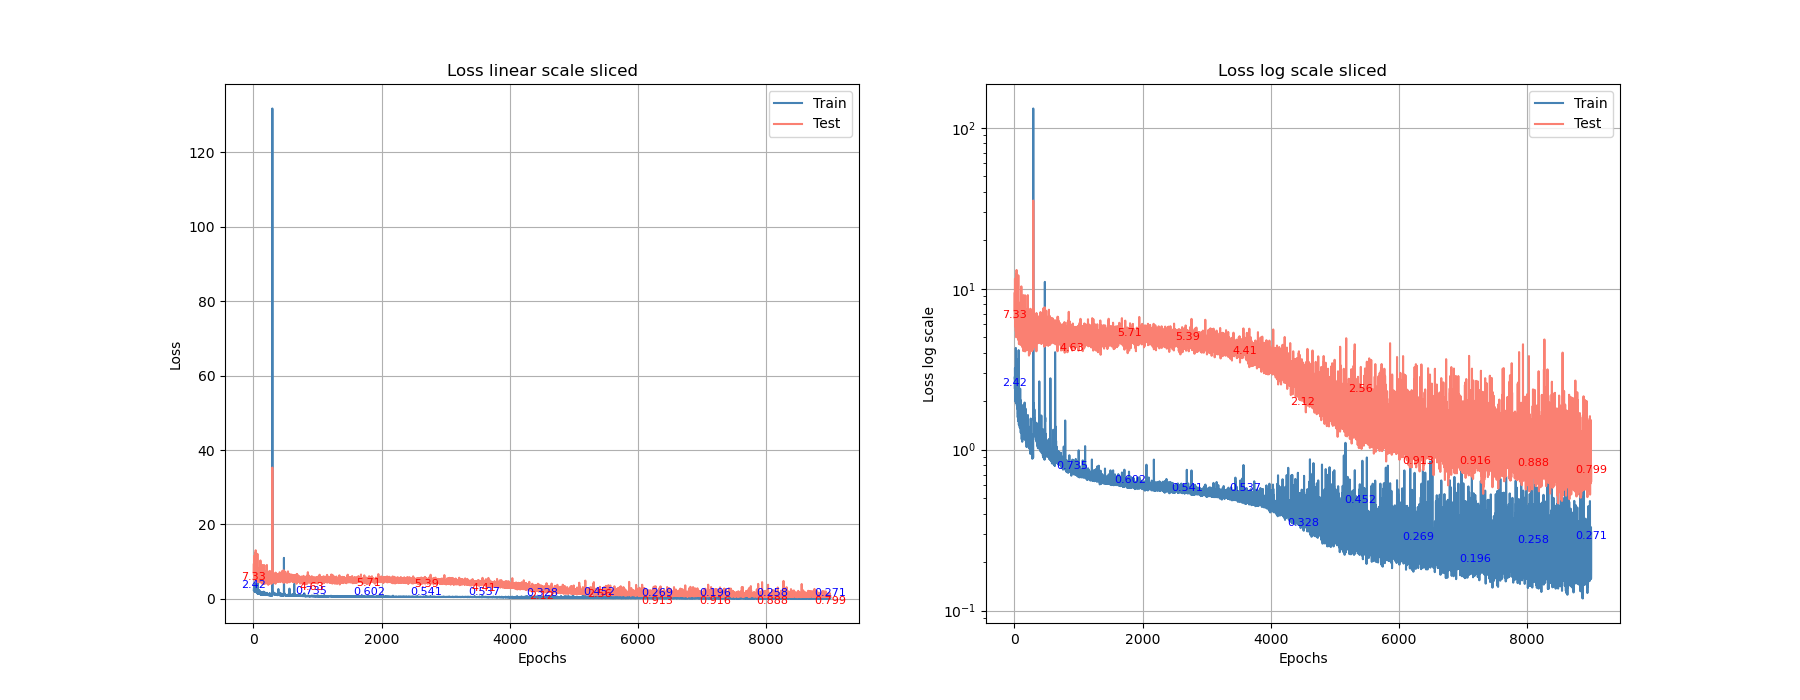
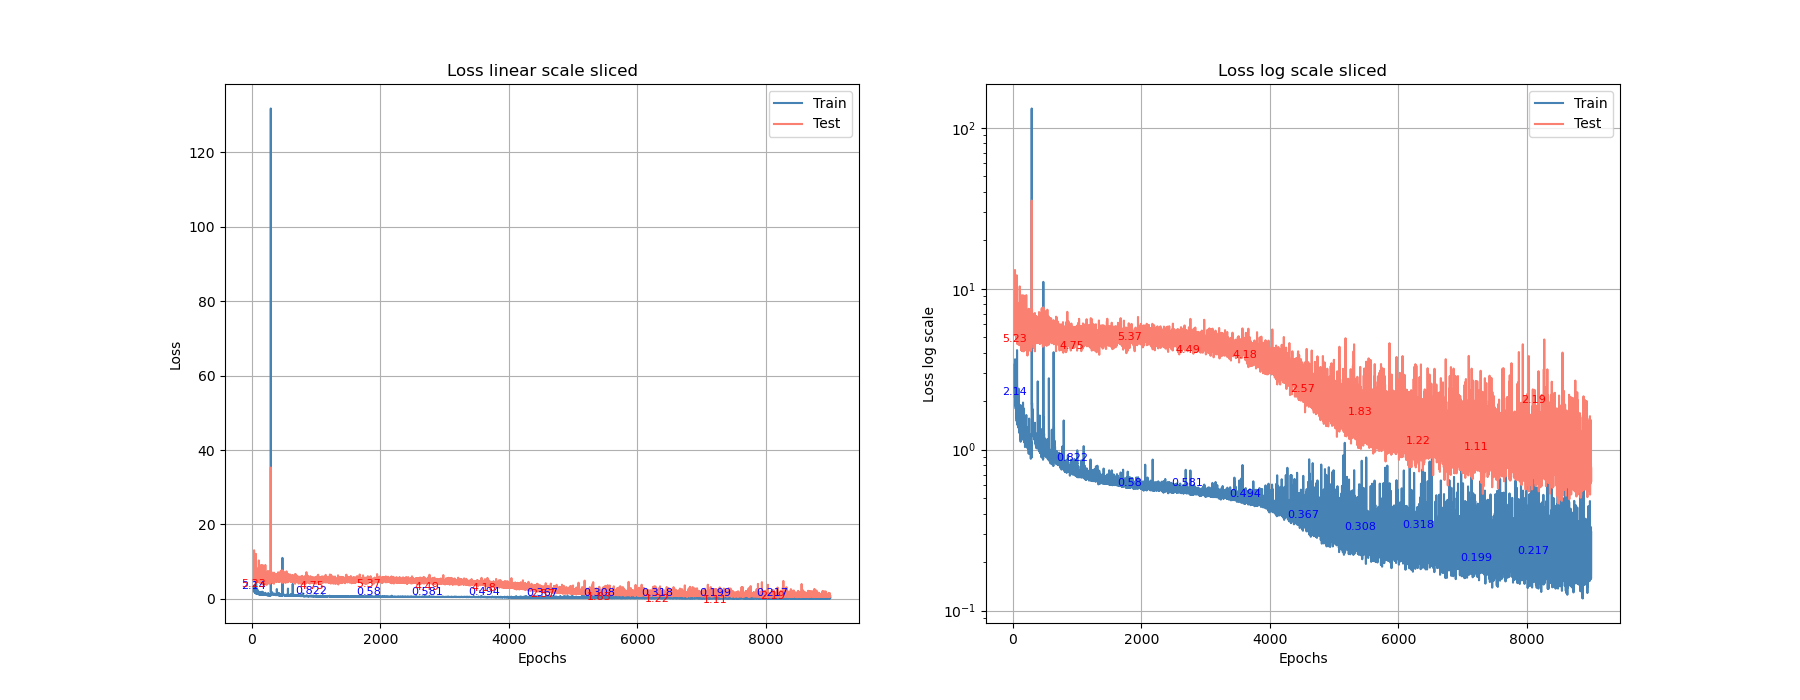
>

diff --git a/params.py b/params.py
@@ -29,7 +29,7 @@ INIT_DATA = True
 PART = ["tail"]                                                  
 
 ### Training ###
-LR = [4e-5]                                                               # TODO lr: 5e-4, 1e-4, 5e-5, 2e-5
+LR = [4e-4]                                                               # TODO lr: 5e-4, 1e-4, 5e-5, 2e-5
 WEIGHT_DECAY = 0                                                          # TODO 5e-4, 5e-5
 MIN_LR = 2e-5
 SCHED = None
@@ -57,7 +57,7 @@ RE1_COEFF = [0]
 SED_COEFF = [0.5]                                                    # TODO 0.01, 0.05, 0.1, 0.5, 1
 L2_COEFF = 1
 HUBER_COEFF = 1                                                      # TODO: coeffs (1,1), (0.5,0.5), (0.1,0.1), (0.1,1), (1,0.1)
-ADDITIONS = "seed_500"                                     
+ADDITIONS = "__seed_500"                                     
 
 #### Model ###
 MLP_HIDDEN_DIM = [1024, 512]

diff --git a/PlotFromText.py b/PlotFromText.py
@@ -110,7 +110,7 @@ def plot_parameter(x, y1, y2, title, plots_path=None, x_label="Epochs", save=Fal
 
 
 if __name__ == "__main__":
-    plots_path = "plots/Stereo/Winners/SED_0.5__L2_1__huber_1__lr_0.0001__conv__CLIP__use_reconstruction_True/BS_8__ratio_0.0375__tail__frozen_4"
+    plots_path = "plots/Stereo/Winners/SED_0.5__L2_1__huber_1__lr_4e-05__conv__CLIP__use_reconstruction_True/Trained_vit/BS_8__ratio_0.0375__tail__frozen_4"
     file_path = os.path.join(plots_path, "output.log")
     save = True
 
@@ -129,5 +129,5 @@ if __name__ == "__main__":
     except: 
         pass
     
-    # 0.06828850582242012 0.8396587000952827 0.9139413060082329 2.0640717697143556
     # 0.06348117679357529 0.8128136677212185 0.8167292144563463 1.8715625296698675
+    # 0.060137820690870286 0.7785132913028494 0.7836507786021514 1.742485699373133
